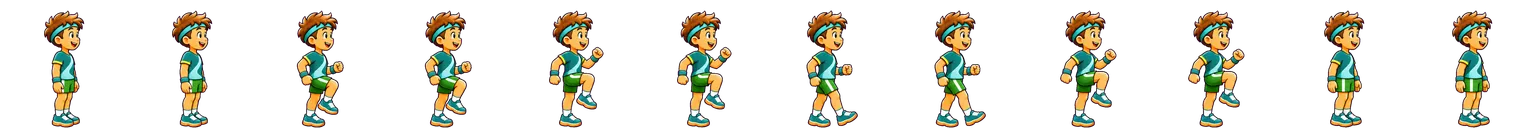
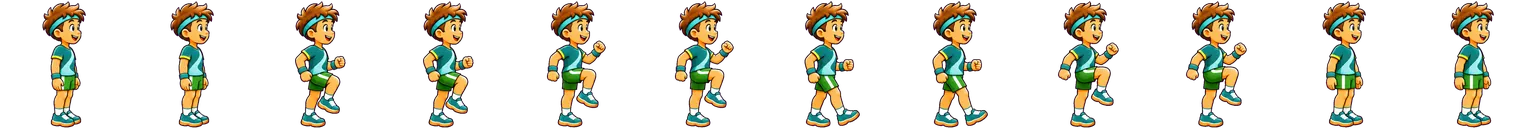
0.31.1: redrawn wu_skips and cd_glute
Claude-Session: https://claude.ai/code/session_015MgUfxYvuaf2H4JGRA2gxD

diff --git a/web/sw.js b/web/sw.js
@@ -1,5 +1,5 @@
 // Offline-first service worker. VERSION is kept equal to version.json by scripts/bump-version.mjs (a unit test enforces it).
-const VERSION = '0.31.0';
+const VERSION = '0.31.1';
 const CACHE = `stepup-${VERSION}`;
 const SHELL = ['./', 'index.html', 'manifest.webmanifest', 'version.json', 'icon.svg', 'css/packs.css', 'css/app.css',
   'js/app.js', 'js/routePlan.js', 'js/planner.js', 'js/planApi.js', 'js/ui/mapScreen.js', 'js/ui/planner.js', 'js/theme-boot.js', 'js/util.js', 'js/i18n.js', 'js/native.js', 'js/icons.js', 'js/brand.js', 'js/brandData.js', 'js/iconData.js', 'js/geo.js', 'js/workout.js', 'js/metronome.js', 'js/cadence.js', 'js/audio.js', 'js/format.js', 'js/store.js', 'js/ui/home.js', 'js/plan.js', 'js/indicators.js', 'js/appVersion.js', 'js/art.js', 'js/voice.js', 'js/records.js', 'js/facts.js', 'js/actions.js', 'js/guide.js', 'js/strings08.js', 'js/strings09.js', 'js/strings10.js', 'js/strings11.js', 'js/appShare.js', 'js/changelog.js', 'js/ui/shareApp.js', 'js/ui/whatsnew.js', 'js/permissions.js', 'js/ui/permissions.js', 'js/characterData.js', 'js/puppetRig.js', 'js/ui/puppet.js', 'js/ui/character.js', 'art/character/walk.webp', 'art/character/run.webp', 'art/character/pose-idle.webp', 'art/character/pose-jump.webp', 'art/character/pose-cheer.webp', 'art/character/pose-wave.webp', 'art/character/pose-rest.webp', 'art/character/pose-stretch.webp', 'art/character/pose-medal.webp', 'art/character/pose-trophy.webp', 'art/character/pose-podium.webp', 'art/character/pose-point.webp', 'art/character/pose-think.webp', 'art/character/pose-sit.webp', 'art/character/pose-sleep.webp', 'art/character/pose-rain.webp', 'js/weatherAnim.js', 'js/weatherAnimData.js', 'js/ui/skynow.js', 'js/ui/hourdetail.js', 'js/ui/progress.js', 'js/ui/imap.js', 'js/ui/mapviewer.js', 'js/ui/marks.js', 'js/exercises.js', 'js/exerciseData.js', 'js/ui/exercises.js', 'js/strings12.js', 'js/ui/directions.js', 'js/nav.js', 'js/ui/weather.js', 'art/weather-anim/clear_day.webp', 'art/weather-anim/clear_night.webp', 'art/weather-anim/drizzle_day.webp', 'art/weather-anim/fog_day.webp', 'art/weather-anim/freezing_rain_day.webp', 'art/weather-anim/hail_day.webp', 'art/weather-anim/heavy_rain_day.webp', 'art/weather-anim/mostly_clear_day.webp', 'art/weather-anim/mostly_clear_night.webp', 'art/weather-anim/overcast_day.webp', 'art/weather-anim/partly_cloudy_day.webp', 'art/weather-anim/partly_cloudy_night.webp', 'art/weather-anim/rain_day.webp', 'art/weather-anim/snow_day.webp', 'art/weather-anim/thunderstorm_day.webp', 'js/ui/guide.js', 'art/workout/banner-afternoon-dark.svg', 'art/workout/banner-afternoon-light.svg', 'art/workout/banner-evening-dark.svg', 'art/workout/banner-evening-light.svg', 'art/workout/banner-morning-dark.svg', 'art/workout/banner-morning-light.svg', 'art/workout/banner-night-dark.svg', 'art/workout/banner-night-light.svg', 'art/workout/card-forest-dark.svg', 'art/workout/card-forest-light.svg', 'art/workout/card-ocean-dark.svg', 'art/workout/card-ocean-light.svg', 'art/workout/card-sunrise-dark.svg', 'art/workout/card-sunrise-light.svg', 'art/workout/count-1-dark.svg', 'art/workout/count-1-light.svg', 'art/workout/count-2-dark.svg', 'art/workout/count-2-light.svg', 'art/workout/count-3-dark.svg', 'art/workout/count-3-light.svg', 'art/workout/count-4-dark.svg', 'art/workout/count-4-light.svg', 'art/workout/count-5-dark.svg', 'art/workout/count-5-light.svg', 'art/workout/count-go-dark.svg', 'art/workout/count-go-light.svg', 'art/workout/hint-double-tap-dark.svg', 'art/workout/hint-double-tap-light.svg', 'art/workout/hint-volume-keys-dark.svg', 'art/workout/hint-volume-keys-light.svg', 'js/ui/workoutShare.js', 'js/shareCard.js', 'js/metrics.js', 'js/gpx.js', 'js/daypart.js', 'js/challenge.js', 'art/celebrate/avatar-frame-dark.svg', 'art/celebrate/avatar-frame-light.svg', 'art/celebrate/confetti-circle-dark.svg', 'art/celebrate/confetti-circle-light.svg', 'art/celebrate/confetti-curl-dark.svg', 'art/celebrate/confetti-curl-light.svg', 'art/celebrate/confetti-rectangle-dark.svg', 'art/celebrate/confetti-rectangle-light.svg', 'art/celebrate/confetti-star-dark.svg', 'art/celebrate/confetti-star-light.svg', 'art/celebrate/confetti-triangle-dark.svg', 'art/celebrate/confetti-triangle-light.svg', 'art/celebrate/distance-record-dark.svg', 'art/celebrate/distance-record-light.svg', 'art/celebrate/fastest-kilometre-dark.svg', 'art/celebrate/fastest-kilometre-light.svg', 'art/celebrate/forest-dark.svg', 'art/celebrate/forest-light.svg', 'art/celebrate/laurel-dark.svg', 'art/celebrate/laurel-light.svg', 'art/celebrate/longest-streak-dark.svg', 'art/celebrate/longest-streak-light.svg', 'art/celebrate/medal-dark.svg', 'art/celebrate/medal-light.svg', 'art/celebrate/most-workouts-week-dark.svg', 'art/celebrate/most-workouts-week-light.svg', 'art/celebrate/ocean-dark.svg', 'art/celebrate/ocean-light.svg', 'art/celebrate/pace-record-dark.svg', 'art/celebrate/pace-record-light.svg', 'art/celebrate/podium-floor-dark.svg', 'art/celebrate/podium-floor-light.svg', 'art/celebrate/podium-steps-dark.svg', 'art/celebrate/podium-steps-light.svg', 'art/celebrate/rays-dark.svg', 'art/celebrate/rays-light.svg', 'art/celebrate/ribbon-dark.svg', 'art/celebrate/ribbon-light.svg', 'art/celebrate/sunrise-dark.svg', 'art/celebrate/sunrise-light.svg', 'art/celebrate/trophy-dark.svg', 'art/celebrate/trophy-light.svg', 'js/podiumCard.js', 'js/ui/podium.js', 'js/mapView.js', 'js/ui/maptiles.js', 'js/backup.js', 'js/ui/backup.js', 'art/badges/almost-distance-dark.svg', 'art/badges/almost-distance-light.svg', 'art/badges/almost-record-dark.svg', 'art/badges/almost-record-light.svg', 'art/badges/faster-last-dark.svg', 'art/badges/faster-last-light.svg', 'art/badges/fastest-km-dark.svg', 'art/badges/fastest-km-light.svg', 'art/badges/new-record-dark.svg', 'art/badges/new-record-light.svg', 'art/badges/passed-distance-dark.svg', 'art/badges/passed-distance-light.svg', 'art/onboarding/caught-up-dark.svg', 'art/onboarding/caught-up-light.svg', 'art/onboarding/no-plan-dark.svg', 'art/onboarding/no-plan-light.svg', 'art/onboarding/no-routes-dark.svg', 'art/onboarding/no-routes-light.svg', 'art/onboarding/no-workouts-dark.svg', 'art/onboarding/no-workouts-light.svg', 'art/onboarding/offline-dark.svg', 'art/onboarding/offline-light.svg', 'art/onboarding/welcome-dark.svg', 'art/onboarding/welcome-light.svg', 'art/weather/clear-dark.svg', 'art/weather/clear-light.svg', 'art/weather/cloudy-dark.svg', 'art/weather/cloudy-light.svg', 'art/weather/cold-dark.svg', 'art/weather/cold-light.svg', 'art/weather/hot-dark.svg', 'art/weather/hot-light.svg', 'art/weather/rain-dark.svg', 'art/weather/rain-light.svg', 'art/weather/windy-dark.svg', 'art/weather/windy-light.svg', 'js/update.js', 'js/strings07.js', 'js/ui/about.js', 'js/strings06.js', 'js/ui/plan.js', 'js/schedule.js', 'js/widgetData.js', 'js/syncNative.js', 'js/strings05.js', 'js/route.js', 'js/routeReco.js', 'js/strings04.js', 'js/ui/routes.js', 'js/ui/livemap.js', 'js/forecast.js', 'js/reco.js', 'js/weatherApi.js', 'js/strings03.js', 'js/ui/reco.js', 'js/stats.js', 'js/steps.js', 'js/effort.js', 'js/reminders.js', 'js/alerts.js', 'js/search.js', 'js/charts.js', 'js/reminderLoop.js', 'js/strings02.js', 'js/ui/dashboard.js', 'js/ui/alerts.js', 'js/ui/search.js', 'js/ui/notify.js', 'js/ui/settings.js', 'js/ui/history.js', 'js/ui/workout.js', 'js/ui/rhythm.js',

diff --git a/web/js/changelog.js b/web/js/changelog.js
@@ -1,5 +1,8 @@
 // "What is new", in the app's two languages: user-facing bullets only, newest first. docs/CHANGELOG.md is the developer copy (a unit test keeps the two in step).
 export const CHANGES = [
+  { v: '0.31.1',
+    en: ['Redrawn animations for the figure-4 glute stretch and the skipping drill.'],
+    he: ['אנימציות מחודשות למתיחת הישבן (figure-4) ולתרגיל הדילוגים.'] },
   { v: '0.31.0',
     en: ['New, fully drawn exercise animations: the character is drawn in every pose of every warm-up and cool-down exercise, so the movements look natural.'],
     he: ['אנימציות חדשות ומצוירות במלואן לתרגילי החימום והשחרור: הדמות מצוירת בכל תנוחה, והתנועות נראות טבעיות.'] },

diff --git a/web/js/appVersion.js b/web/js/appVersion.js
@@ -1,2 +1,2 @@
 // The version of the code that is running (kept equal to version.json by scripts/bump-version.mjs; a unit test enforces it).
-export const APP_VERSION = '0.31.0';
+export const APP_VERSION = '0.31.1';

diff --git a/docs/CONTEXT.md b/docs/CONTEXT.md
@@ -6,8 +6,8 @@ Read this first in a new session. It says what the product is, where everything 
 **StepUp** (repo `ohadsam/distance_analyzer`): a walking and running tracker. One vanilla-JS web app (`web/`, no build step, no runtime dependencies) shipped as a **PWA** (GitHub Pages) and as a thin **Android WebView app** (`android/`, same `web/` folder as assets). Hebrew (RTL) is the default, English is chosen in Settings. No server, no account; data stays on the device. Branch `main` is the primary branch.
 Owner's standing rules live in `.claude/skills/release-checklist/SKILL.md` (section 0). Requests and their status: `docs/REQUESTS.md`. Plan: `docs/ROADMAP.md`.
 
-## Status (0.31.0)
-Done: **looping full-figure drawn animations for all 24 exercises (0.31.0; 6 weak ones to redo), mark point, interactive maps everywhere (zoom, address search, measuring, km markers), turn-by-turn navigation with voice, written directions, progress bars, warm-up / cool-down exercises, effort chart with advice, broader global search (0.29.0)**, **a Weather card always on Home and tappable weather charts showing the hour's temperature / humidity / rain (0.28.0)**, **measuring starts when the run / walk really starts (movement detection), the weather screen with hour-by-hour humidity / rain for any place or route, animated charts (0.27.0)**, **animated weather pictures for the sky now (Home day card, Recommendations) from the illustrator's 15 animations (0.26.0)**, **steps counted all day by a quiet foreground service (the background alarm could never read the sensor) - 0.25.2, needs a phone to confirm**, **the steps widget refreshes by itself (every 15 min, on leaving the app, after restart or update) - 0.25.1, needs a phone to confirm**, **share sheet (WhatsApp, e-mail, share menu, copy) and a "what is new" window (0.25.0)**, **web app updates itself (fresh files for a new service worker, one automatic reload) (0.24.1)**, **permissions screen + start-up sheet, map / weather / planner on by default with automatic location, in-app update that installs over the app (0.24.0)**, **an illustrated character with walk / run strips and still poses (0.23.0)**, **Trail from the designer brief (10 poses, per-pose joint pivots) (0.22.0)**, **Trail V5 (15 connected poses) with the countdown and the guide (0.21.0)**, **Trail as an athlete (kit V3) on the start cards, welcome, summary and the user guide (0.20.0)**, **redesigned single-colour icons, Trail (the logo-born companion character, 8 poses) on the start cards / welcome / summary, live speed gauge, active navigation icons, calm-animations switch (0.19.0)**, **user guide (interactive tour with screenshots), search over actions / your data / the guide, a clear live map, a quiet first-run home, map screen with distance measuring, route planner by address and distance (0.18.0)**, **workout visual kit: banners, workout cards, countdown numerals, hints, number icons (0.17.0)**, **choose your workout numbers, day card, history sort/records/GPX/share picture, hands-free, countdown, wide layout (0.16.0)**, **new minimal workout screen, background voice, stop hint, sunlight mode, weekly challenge + Sunday summary, kit podium (0.15.0)**, **opt-in street map, battery optimisation, record celebration with victory photo (0.14.0)**, **backup/restore, week-bars widget, monthly summary (0.13.0)**, **rhythm coach and charts in the kit's look, folded filters, spoken cues (0.12.0)**, **kit art integrated: empty states, weather banner, indication badges, widget backgrounds, Android 12 splash (0.11.0)**, **update check, newest-APK download and share from inside the app (0.10.0)**, **two more Android widgets (last workout, next session) with a designed background (0.9.1, launcher verification pending)**, **bottom navigation, collapsible settings, lighter first dashboard, welcome card (0.9.0)**, **live in-workout indications (records, last time, faster km - 0.8.1)**, **training plans (build, week view, auto-match, gentle catch-up, reminders - 0.8.1)**, Android home-screen widgets (steps, weekly effort, measure now - 0.7.0, launcher verification pending)**, Android background (screen-off tracking, all-day steps, notifications when closed - 0.6.0, real-device verification pending)**, quick actions, routes (save, recognise, progress, suggestions, one-time, follow with ghost), tile-less live map (0.5.0)**, recommendations by weather and routine (0.4.0, opt-in network)**, workout mode (GPS distance/pace/splits, pause, lock, resume), smart rhythm coach (metronome + breathing guide), history, design foundation + StepUp brand, effort bar by age and history with deviation alerts, quality-weighted steps, dashboard (customisable widgets, filters, drill-down), alerts inbox, global search, reminders (fixed + smart nudges, while the app is open), manual weather per workout with weather-aware stats.
+## Status (0.31.1)
+Done: **looping full-figure drawn animations for all 24 exercises (0.31.1; 4 weak ones to redo: calf raises, hip circles, ankle rolls, chest), mark point, interactive maps everywhere (zoom, address search, measuring, km markers), turn-by-turn navigation with voice, written directions, progress bars, warm-up / cool-down exercises, effort chart with advice, broader global search (0.29.0)**, **a Weather card always on Home and tappable weather charts showing the hour's temperature / humidity / rain (0.28.0)**, **measuring starts when the run / walk really starts (movement detection), the weather screen with hour-by-hour humidity / rain for any place or route, animated charts (0.27.0)**, **animated weather pictures for the sky now (Home day card, Recommendations) from the illustrator's 15 animations (0.26.0)**, **steps counted all day by a quiet foreground service (the background alarm could never read the sensor) - 0.25.2, needs a phone to confirm**, **the steps widget refreshes by itself (every 15 min, on leaving the app, after restart or update) - 0.25.1, needs a phone to confirm**, **share sheet (WhatsApp, e-mail, share menu, copy) and a "what is new" window (0.25.0)**, **web app updates itself (fresh files for a new service worker, one automatic reload) (0.24.1)**, **permissions screen + start-up sheet, map / weather / planner on by default with automatic location, in-app update that installs over the app (0.24.0)**, **an illustrated character with walk / run strips and still poses (0.23.0)**, **Trail from the designer brief (10 poses, per-pose joint pivots) (0.22.0)**, **Trail V5 (15 connected poses) with the countdown and the guide (0.21.0)**, **Trail as an athlete (kit V3) on the start cards, welcome, summary and the user guide (0.20.0)**, **redesigned single-colour icons, Trail (the logo-born companion character, 8 poses) on the start cards / welcome / summary, live speed gauge, active navigation icons, calm-animations switch (0.19.0)**, **user guide (interactive tour with screenshots), search over actions / your data / the guide, a clear live map, a quiet first-run home, map screen with distance measuring, route planner by address and distance (0.18.0)**, **workout visual kit: banners, workout cards, countdown numerals, hints, number icons (0.17.0)**, **choose your workout numbers, day card, history sort/records/GPX/share picture, hands-free, countdown, wide layout (0.16.0)**, **new minimal workout screen, background voice, stop hint, sunlight mode, weekly challenge + Sunday summary, kit podium (0.15.0)**, **opt-in street map, battery optimisation, record celebration with victory photo (0.14.0)**, **backup/restore, week-bars widget, monthly summary (0.13.0)**, **rhythm coach and charts in the kit's look, folded filters, spoken cues (0.12.0)**, **kit art integrated: empty states, weather banner, indication badges, widget backgrounds, Android 12 splash (0.11.0)**, **update check, newest-APK download and share from inside the app (0.10.0)**, **two more Android widgets (last workout, next session) with a designed background (0.9.1, launcher verification pending)**, **bottom navigation, collapsible settings, lighter first dashboard, welcome card (0.9.0)**, **live in-workout indications (records, last time, faster km - 0.8.1)**, **training plans (build, week view, auto-match, gentle catch-up, reminders - 0.8.1)**, Android home-screen widgets (steps, weekly effort, measure now - 0.7.0, launcher verification pending)**, Android background (screen-off tracking, all-day steps, notifications when closed - 0.6.0, real-device verification pending)**, quick actions, routes (save, recognise, progress, suggestions, one-time, follow with ghost), tile-less live map (0.5.0)**, recommendations by weather and routine (0.4.0, opt-in network)**, workout mode (GPS distance/pace/splits, pause, lock, resume), smart rhythm coach (metronome + breathing guide), history, design foundation + StepUp brand, effort bar by age and history with deviation alerts, quality-weighted steps, dashboard (customisable widgets, filters, drill-down), alerts inbox, global search, reminders (fixed + smart nudges, while the app is open), manual weather per workout with weather-aware stats.
 Not done / known limits: the smart "no movement" nudge works only while the app is open; Android background features are verified only by a stand-in bridge and CI; internet is used only on request: the weather forecast (opt-in, Open-Meteo), update check (GitHub), map tiles (opt-in, OpenStreetMap) and the route planner (opt-in, four public services) - its live answer is unverified (sandbox blocks the host); automatic weather *per workout* (history) is still not built; the route planner's live answers (Nominatim, FOSSGIS OSRM, Open-Meteo elevation, Overpass) are only verified against stand-ins because the sandbox blocks those hosts, and its crossing / sidewalk reading depends on how well OpenStreetMap is mapped where you are; Kotlin is only compiled in CI; sensor thresholds are tuned on synthetic data, not a real run; steps are estimated from tracked workouts (no passive counter yet).
 
 ## How to run and verify

diff --git a/docs/CHANGELOG.md b/docs/CHANGELOG.md
@@ -1,5 +1,8 @@
 # Changelog
 
+## 0.31.1
+- `wu_skips` and `cd_glute` replaced by the illustrator's redrawn versions (round 2: clean colours, the figure-4 with the ankle on the knee). The other four requested redraws (`wu_calf_raises`, `wu_hip_circles`, `wu_ankle_rolls`, `cd_chest`) were not delivered yet and keep the 0.31.0 drawings.
+
 ## 0.31.0
 - **Exercise animations redone as full-figure drawings.** The parts-and-rig renders of 0.30.0 looked stiff (distorted shoulders and shorts), so 23 of the 24 exercises now use the illustrator's fully drawn poses (6 poses each, every pose held for 2 of the 12 frames; per-exercise loop times from the illustrator's data, 1.2 s to 4 s). `wu_skips` keeps the rig render (the drawn one has a pink tint). `scripts/make-exercise-sprites.py` takes 6 or 12 frames per exercise; the contact sheets are in `design/stepup/exercises-fullpose/`. Known weaker drawn ones (to redo): `wu_skips` (pink tint), `cd_glute` (figure-4 contact unclear), `wu_calf_raises` (heel barely lifts), `wu_hip_circles` (circle hardly visible), `wu_ankle_rolls`, `cd_chest` (hands not visibly clasped). The ChatGPT output says itself: technical QA only, identity and form not certified.
 

diff --git a/docs/PENDING_CHATGPT_PROMPTS.md b/docs/PENDING_CHATGPT_PROMPTS.md
@@ -35,3 +35,4 @@ Flow: prompt written here → owner pastes it in ChatGPT → owner returns the r
 
 - #19 returned (4 zips, 24 exercises) and integrated in 0.31.0. Still to ask ChatGPT to redo (small follow-up prompt, not yet written): wu_skips (pink tint), cd_glute, wu_calf_raises, wu_hip_circles, wu_ankle_rolls, cd_chest.
 - #20 (`docs/prompts/ROUND20_EXERCISES_FIX6_PROMPT.md`): redo wu_skips, cd_glute, wu_calf_raises, wu_hip_circles, wu_ankle_rolls, cd_chest - pending user send; when back, integrate with `scripts/make-exercise-sprites.py` (replace those folders) and bump.
+- #20 partly returned: wu_skips and cd_glute integrated in 0.31.1; still open: wu_calf_raises, wu_hip_circles, wu_ankle_rolls, cd_chest (ask ChatGPT again for these four).
